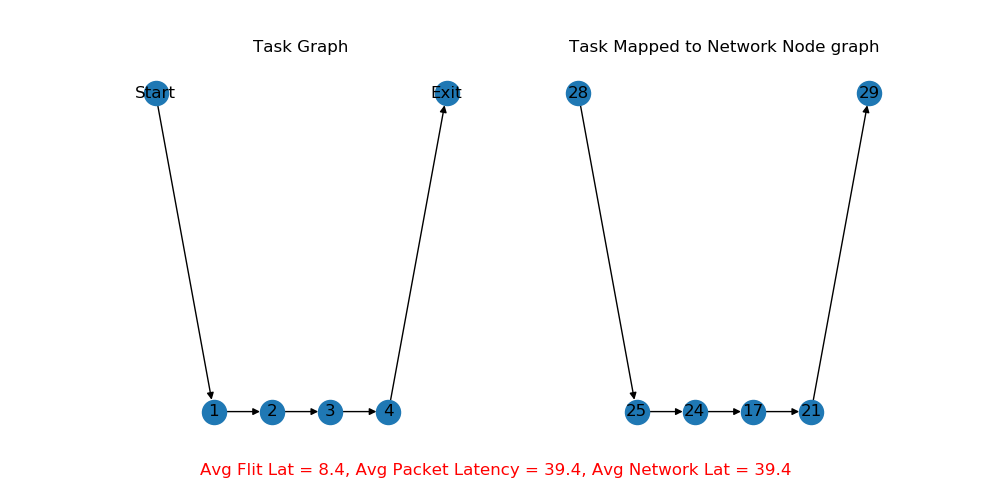
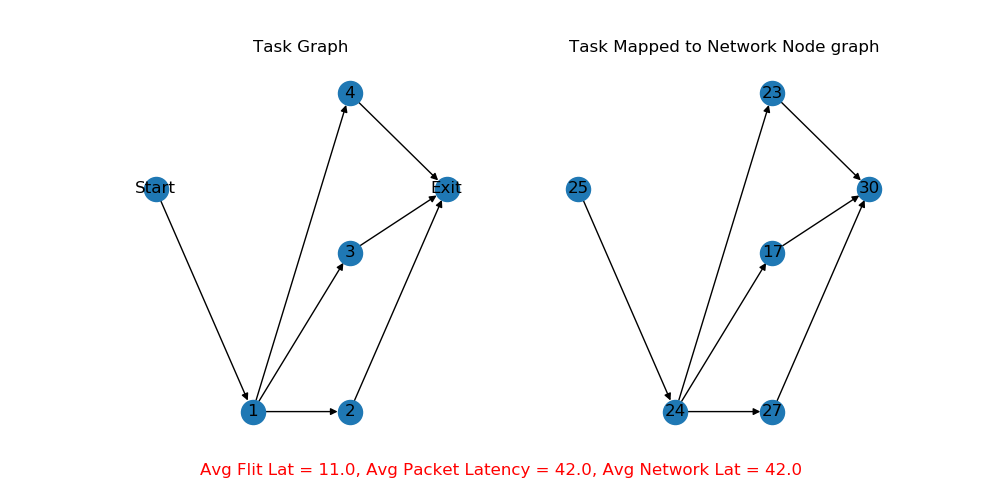
+README +gitignore

diff --git a/training_data/generate.py b/training_data/generate.py
@@ -18,7 +18,7 @@ run_sim = args.runSim
 
 network = '4' # Select '4' for 4x4 Mesh and '2' for 2x2 Mesh
 max_out = 3
-alpha = 0.5
+alpha = 1.0
 beta = 1.0
 
 """

diff --git a/README.md b/README.md
@@ -1,0 +1,8 @@
+### Training Data Generation 
+Generate a random task from a Directed Acyclic Graph, map tasks to network nodes, and calculate network latency using these commands.  
+
+```
+cd training_data/
+python3 generate.py --tasks 4 --runSim True
+```
+The code above creates 4 tasks (excluding the starting and ending node) and then runs the ratatoskr simulator on the created config files. 
